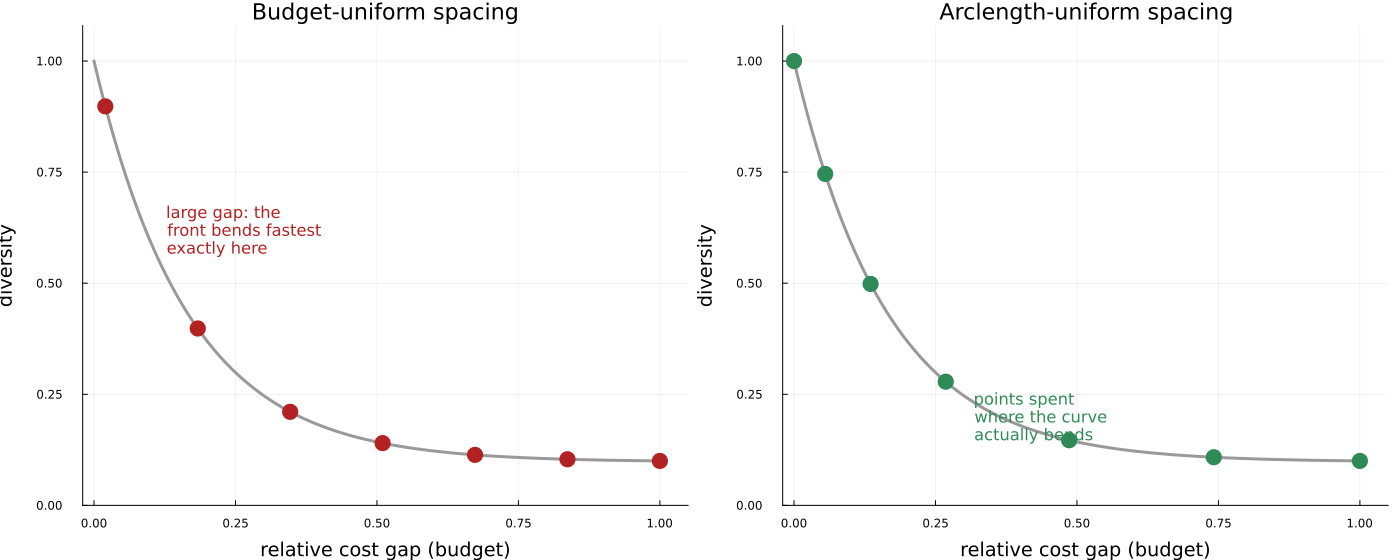
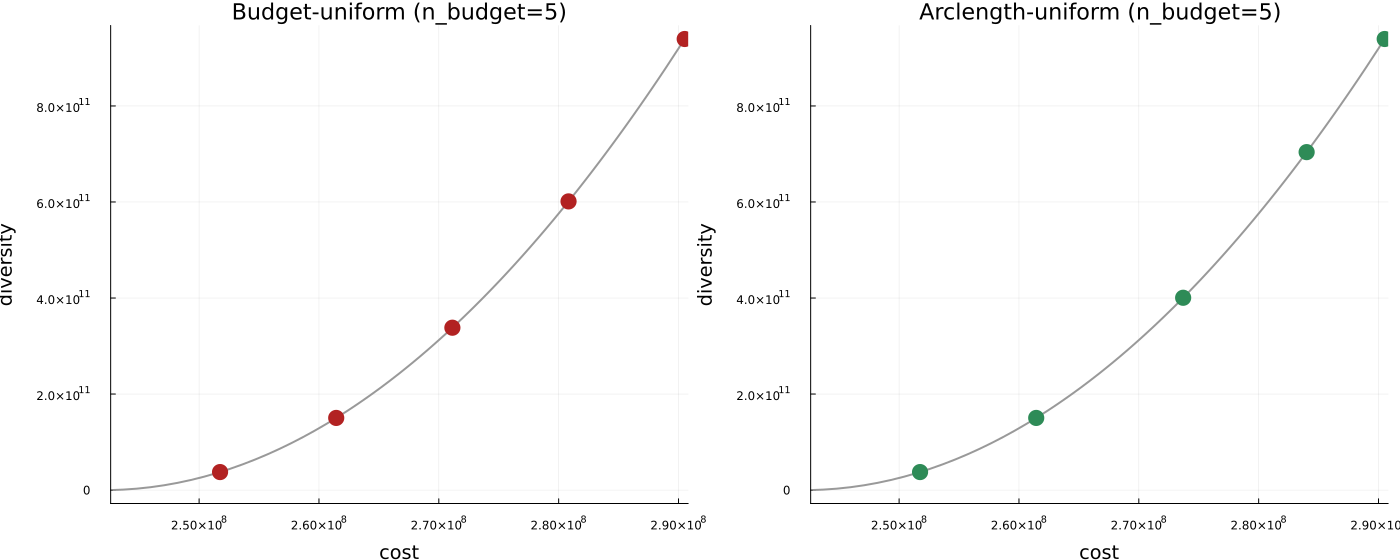
Fix arclength warm-start tutorial and use a real Norse figure for arclength intuition
The warm-start tutorial's arclength example named its restore closure
restore_to_barrier!, contradicting the surrounding explanation that a new
direction is an objective change (primal simplex's favourable case, not
barrier). Rename it to to_primal_simplex! and present the pattern as a single
combined callback: dual simplex within a direction, primal simplex between
directions, rather than two separate ideas.

Replace the schematic arclength intuition figure with one generated from a
real 5-point solve on the Norse dataset, and update the caption/prose to
describe it honestly (the spacing difference is real but can be subtle
depending on how sharply a given front curves).

diff --git a/docs/src/10-how-to-use.md b/docs/src/10-how-to-use.md
@@ -207,7 +207,7 @@ alternatives = generate_alternatives_metaheuristics(model, optimality_gap, n_alt
 `generate_alternatives_optimization!` and `generate_alternatives_arclength!` both accept a `reconfigure_solver!` callback (see the [IO Reference](15-io.md) for its exact signature). Its job is to switch the attached solver's *algorithm* — not the model — partway through generation, so later solves start from the previous solve's basis instead of solving cold. Whether that helps depends entirely on how big the change is between successive solves:
 
 - In `generate_alternatives_optimization!`, only the *objective* changes between alternatives (the direction). That is the textbook case for a **primal**-simplex warm start.
-- In `generate_alternatives_arclength!`, only the *budget* (the near-optimal cost constraint's right-hand side) moves within a direction. That is the textbook case for a **dual**-simplex warm start.
+- In `generate_alternatives_arclength!`, only the *budget* (the near-optimal cost constraint's right-hand side) moves within a direction — the textbook case for a **dual**-simplex warm start — but a direction change is an objective change, so the natural combined pattern (below) also brings primal simplex back in between directions.
 
 `reconfigure_solver!` only *sets solver attributes* — the package itself handles the mandatory re-solve after the attribute change. The exact attribute names are solver-specific; the example below uses Gurobi's (`"Method"`: `2` = barrier, `0` = primal simplex, `1` = dual simplex; `"Crossover"`: `0` = off, `-1` = on), since Gurobi is the most common solver this package is used with in practice, but the same idea applies to any solver whose MathOptInterface wrapper exposes an algorithm-choice attribute (e.g. HiGHS's `"solver"` string attribute).
 
@@ -240,25 +240,22 @@ alternatives = generate_alternatives_optimization!(
 
 `reconfigure_solver!` fires once, right after alternative #1 is found, and switches every solve after that to primal simplex — each one now starts from the previous alternative's basis instead of from scratch. This is only worth the one-time crossover cost when you're generating enough alternatives (`n_alternatives`) that the savings on the remaining solves outweigh it; for a handful of alternatives on a small model, plain cold barrier (no `reconfigure_solver!` at all) is often just as fast, or faster — the crossover step itself is not always cheap or even reliable on a large, ill-conditioned model, so measure before committing to this pattern at scale.
 
-### Warm-starting `generate_alternatives_arclength!` (dual simplex)
+### Warm-starting `generate_alternatives_arclength!` (dual simplex within a direction, primal simplex between directions)
 
-The setup is the same, but `reconfigure_solver!` here fires once *per direction*, right after that direction's first point, and — because arclength solves budgets out of order within a direction — it can return a closure that restores the original algorithm before the *next* direction starts (since the next direction changes the objective, the case primal simplex favours, not the budget):
+The setup is the same, but `reconfigure_solver!` here fires once *per direction*, right after that direction's first point, and returns a closure that runs once at the *start of the next* direction — because arclength solves budgets out of order within a direction, but a new direction is a fresh objective, which is exactly what primal simplex is warm-starting for in the first place. So rather than treating "warm-start within a direction" and "warm-start across directions" as two separate ideas, one `reconfigure_solver!` covers both at once: dual simplex for the rest of the current direction's points, and the *returned closure* switches straight to primal simplex for the next direction's first point — no restore-to-barrier step needed in between.
 
 ```julia
 to_dual_simplex!(m) = set_optimizer_attribute(m, "Method", 1)
-restore_to_barrier!(m) = begin
-    set_optimizer_attribute(m, "Method", 2)
-    set_optimizer_attribute(m, "Crossover", -1)
-end
+to_primal_simplex!(m) = set_optimizer_attribute(m, "Method", 0)
 
 front = generate_alternatives_arclength!(
     model, 0.2, [x_cheap, x_expensive], 3;   # 3 directions
     n_budget = 5,
     reconfigure_solver! = m -> begin
         to_dual_simplex!(m)
-        restore_to_barrier!   # returned, not called: this is the restore closure
+        to_primal_simplex!   # returned, not called: this is the restore closure
     end,
 )
 ```
 
-The returned function (`restore_to_barrier!` itself, not a call to it) is applied automatically at the start of the next direction. If you don't need to restore anything between directions, return `nothing` instead.
+`to_primal_simplex!` is returned *uncalled* — it already has the `model -> nothing` shape `reconfigure_solver!`'s return value needs, so there is nothing to wrap it in. The package applies it automatically at the start of the next direction, right after that direction's objective is updated. Every direction therefore opens on primal simplex (warm from the previous direction's basis) and switches to dual simplex once its own budget starts moving — one algorithm for each of the two things that actually change in this function, with no separate crossover-restore step to write yourself. If you don't need this and just want dual-within-direction with no cross-direction carry-over, return `nothing` instead of the function reference.

diff --git a/docs/src/30-concepts.md b/docs/src/30-concepts.md
@@ -134,10 +134,13 @@ stops at even *map distance* apart, you'll cluster stops uselessly on the flat, 
 past the steep switchbacks where the trail actually changes direction. Placing stops at even *distance
 walked along the trail* instead puts more stops exactly where the path bends and fewer where it runs
 straight. Budget-uniform spacing is the first kind of stop-placement (even in cost); arclength spacing is
-the second (even along the curve) — see the figure below for what this looks like on a front that starts
-steep and flattens out, the shape most near-optimal fronts actually have.
+the second (even along the curve) — see the figure below, generated from a real 5-point solve on the
+[Norse](https://github.com/TulipaEnergy/TulipaEnergyModel.jl) example dataset (not a schematic), for what
+this looks like in practice. The effect is real but can be subtle depending on how sharply the front
+actually curves for a given instance and direction — the gap between spacing strategies is more dramatic
+the more the front bends.
 
-![Budget-uniform spacing (left) clusters points on the flat tail and leaves a gap exactly where the front bends most; arclength spacing (right) places points evenly along the curve itself, concentrating them where the front actually changes.](assets/arclength_intuition.png)
+![Budget-uniform spacing (left) versus arclength spacing (right), both against the same dense reference front (gray), from a real 5-point `n_budget` solve on the Norse dataset: arclength spacing shifts points toward the steeper part of the curve rather than clustering them evenly in cost.](assets/arclength_intuition.png)
 
 - Behavior: a pseudo-arclength predictor-corrector scheme [^Keller1977][^AllgowerGeorg1990]. The two budget endpoints are solved first to anchor and normalise the (cost, diversity) metric. Each subsequent budget is then *predicted* from a finite-difference tangent, so every step advances a fixed target arclength, and *corrected* by an exact solve at that budget. A budget that fails to solve is stepped over rather than aborting the direction. The same idea has been used to trace Pareto fronts in multi-objective optimization [^Hillermeier2001][^Schutze2005].
 - `reconfigure_solver!` lets the solver's algorithm be switched (e.g. barrier to dual simplex) once per direction, right after that direction's first point, so the rest of that direction's points can warm-start off the resulting basis. See the [warm-starting tutorial](@ref warm-start-tutorial) and the [IO Reference](15-io.md) for details.
